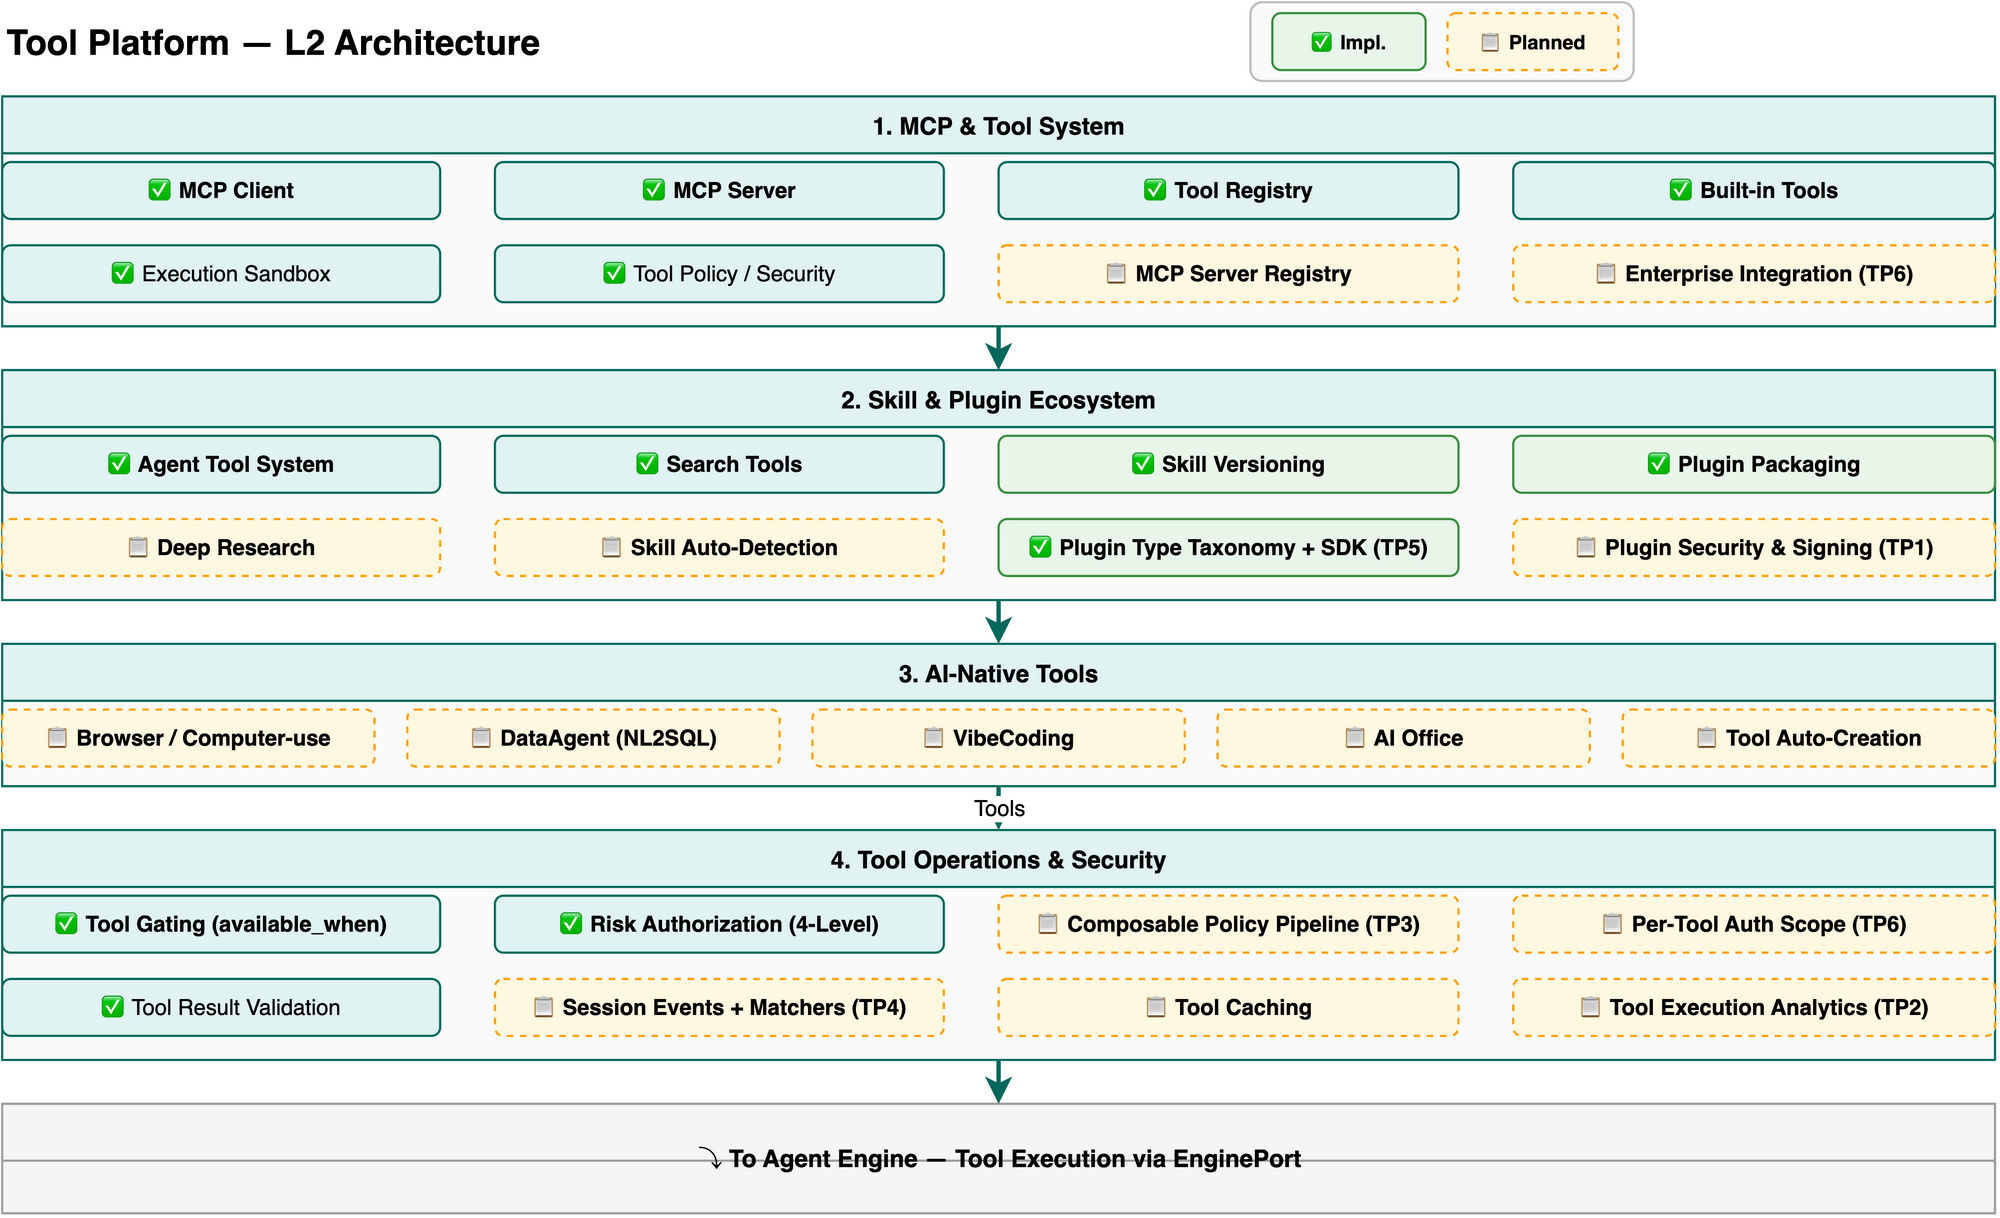
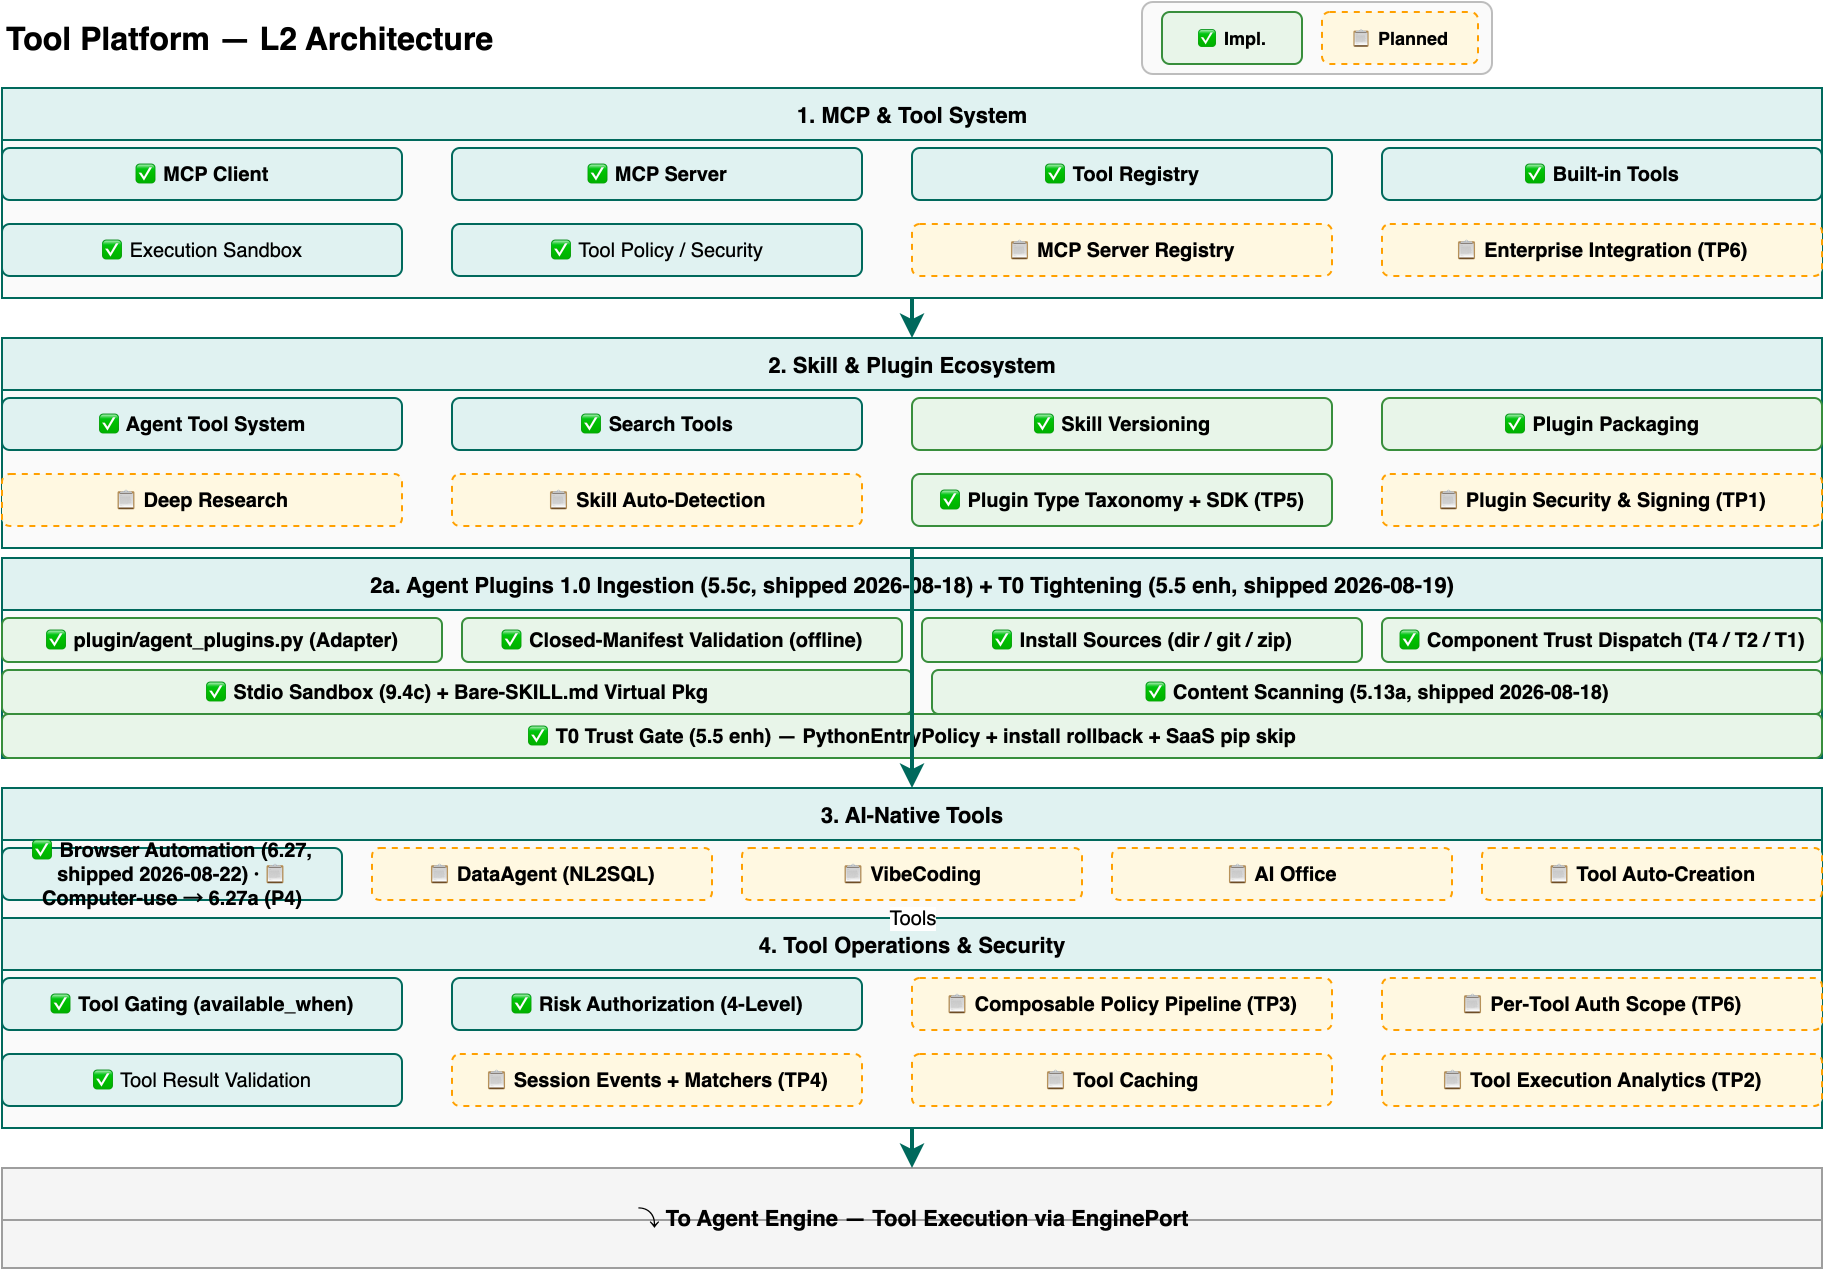
docs(design): built-in inventory 5→11 + tool-platform diagram flipped to shipped
- execute_code risk HIGH→MEDIUM aligned to shipped code; browser node re-exported via drawio CLI

Ultraworked with [Sisyphus](https://github.com/code-yeongyu/oh-my-openagent)

diff --git a/docs/design/tool-platform-design.md b/docs/design/tool-platform-design.md
@@ -79,7 +79,15 @@ Agent (LLM tool call)
 | `read_file` | Read file from workspace | LOW | No |
 | `write_file` | Write file to workspace | MEDIUM | No |
 | `list_files` | List directory contents | LOW | No |
-| `execute_code` | Execute Python in Docker container | HIGH | Yes |
+| `execute_code` | Execute Python in Docker container | MEDIUM | Yes (`hecate-sandbox` pool) |
+| `browser_navigate` | Navigate per-session headless Chromium to a URL; allow-list enforced fail-closed (6.27) | MEDIUM (HIGH off allow-list) | Yes (`hecate-browser-sandbox`) |
+| `browser_click` | Click page element by CSS selector or visible text (6.27) | MEDIUM | Yes |
+| `browser_type` | Type into an input, optional Enter submit (6.27) | MEDIUM | Yes |
+| `browser_extract` | Extract accessibility tree / text / HTML from page (6.27) | MEDIUM | Yes |
+| `browser_screenshot` | Capture viewport / full-page / element PNG as base64 (6.27) | MEDIUM | Yes |
+| `browser_fill_form` | Atomically fill multiple form fields (6.27) | MEDIUM | Yes |
+
+> Browser tools (6.27) run in a dedicated `hecate-browser-sandbox` image — separate from the lightweight `hecate-sandbox` used by `execute_code` — with network egress gated by `NetworkPolicy` and output scanned by the DLP engine. See [Browser Automation how-to](../how-to/browser-automation.md).
 
 ---
 
